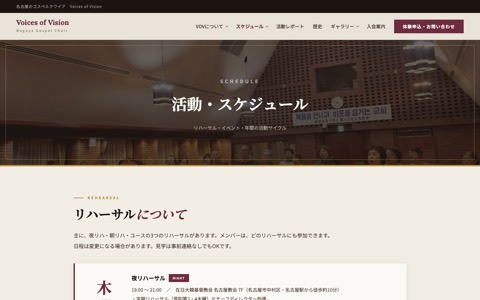
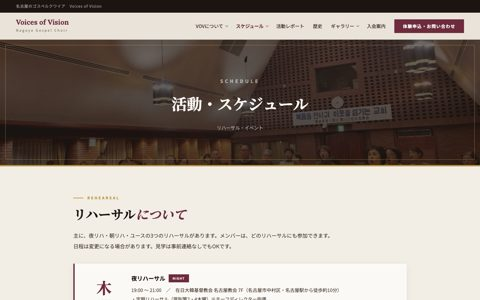
赤入れPDFの再照合で見つかった取りこぼし9件を修正
7/19 の赤入れ PDF の注釈118件を本番と1件ずつ照らし直した結果。
いずれも 9/9 のシートで「完了」としていたが、実際には反映されて
いなかった、または別の文になっていたもの。

TOP
- No.9/10/13/15：見出し下の紹介文が 9/5 の全画面化で消えていた。
  指示を入れた文（Voices of Vision（VOV）は、創設者…経験も、信仰も
  問いません。）で戻す。高さの低い画面では見出しを小さくし、
  800px 以下では引用を出さずに枠内へ収める。スマホは Information の
  案内が Since 1999 の札と重ならないよう上に余白
- No.17：引用下の「VOICES OF VISION」の札を削除。引用文は PDF の
  「オーディションなし。楽譜なし。…」に戻す（9/5 に変えていた）
- No.23：ABOUT VOV → About Us（「Our Values」になっていた）
- No.26/27：「VOVが大切にしていること」本文を PDF の文に戻し、
  創設者・VOV の2語だけ差し替え
- No.28：差し替え指示は先頭の一文だけ。消えていた続きの2文を戻す
- No.55「移動」：矢印は活動の記録の下端→活動レポート。活動レポート
  の区画を活動の記録の直後へ移動（背景色の重なりも調整）
- NAGOYA 削除の指示に合わせ、2つ目の Since 1999 の札も Gospel Choir

VOVについて
- No.70：3つの柱の文を読点・空白まで指示どおりに
- No.84：「・ユース」だけ削除の指示だったのに一文ごと消えていた。
  「一般会員は月額4,000円で、夜リハ・朝リハのどのリハーサルにも
  参加できます。」を戻す

活動レポート：No.114 上部の一文を削除（文を変えて残していた）
活動・スケジュール：「1年の流れ」削除に合わせ副題から「年間の活動
サイクル」を外す
確認資料：目次に「再確認で直したこと」と判断2件を追加、サイトマップ
の TOP の区画順と画像を更新

diff --git a/vov_top.html b/vov_top.html
@@ -113,11 +113,12 @@ img[data-rot],img[data-rot-fade]{position:absolute;inset:0;width:100%;height:100
 .h-eye{display:flex;align-items:center;gap:13px;margin-bottom:26px}
 .h-eye-bar{width:44px;height:2px;background:var(--gold-l)}
 .h-eye-t{font-size:clamp(10px,1vw,12px);letter-spacing:.34em;color:var(--gold-l);font-weight:700}
-h1{font-family:'Lora','Noto Serif JP',serif;font-size:clamp(40px,6vw,76px);font-weight:700;line-height:1.2;color:var(--white);margin-bottom:22px;text-shadow:0 2px 34px rgba(0,0,0,.42)}
+h1{font-family:'Lora','Noto Serif JP',serif;font-size:clamp(40px,6vw,76px);font-weight:700;line-height:1.2;color:var(--white);margin-bottom:14px;text-shadow:0 2px 34px rgba(0,0,0,.42)}
 h1 em{font-style:italic;color:var(--gold-l)}
 /* 採用されたキャッチコピー（シート No.7） */
-.h-catch{font-family:'Noto Serif JP','Lora',serif;font-weight:600;font-size:clamp(17px,1.9vw,23px);letter-spacing:.12em;line-height:1.7;color:rgba(251,249,245,.96);margin:-6px 0 18px;text-shadow:0 1px 18px rgba(0,0,0,.5)}
-.h-sub{font-family:'Lora','Noto Serif JP',serif;font-size:clamp(15px,1.7vw,19px);letter-spacing:.26em;color:rgba(251,249,245,.85);margin-bottom:42px;font-weight:500;font-style:italic;text-shadow:0 1px 20px rgba(0,0,0,.4)}
+.h-desc{font-size:clamp(13px,1.05vw,15px);line-height:1.9;color:rgba(251,249,245,.9);max-width:600px;margin:-18px 0 22px;text-shadow:0 1px 16px rgba(0,0,0,.5)}
+.h-catch{font-family:'Noto Serif JP','Lora',serif;font-weight:600;font-size:clamp(17px,1.9vw,23px);letter-spacing:.12em;line-height:1.7;color:rgba(251,249,245,.96);margin:-6px 0 14px;text-shadow:0 1px 18px rgba(0,0,0,.5)}
+.h-sub{font-family:'Lora','Noto Serif JP',serif;font-size:clamp(15px,1.7vw,19px);letter-spacing:.26em;color:rgba(251,249,245,.85);margin-bottom:28px;font-weight:500;font-style:italic;text-shadow:0 1px 20px rgba(0,0,0,.4)}
 .cta-row{display:flex;gap:22px;align-items:center;flex-wrap:wrap}
 .btn-fill{
   background:var(--burg);color:var(--white);padding:17px 40px;
@@ -137,7 +138,7 @@ h1 em{font-style:italic;color:var(--gold-l)}
 .hero-badge{position:absolute;z-index:3;top:52px;right:clamp(28px,5vw,64px);background:rgba(24,16,12,.72);backdrop-filter:blur(3px);color:var(--gold-l);padding:15px 22px;text-align:center;border:1px solid rgba(212,176,97,.3)}
 .hero-badge-n{font-family:'Lora','Noto Serif JP',serif;font-size:23px;font-weight:600;font-style:italic;line-height:1.15;display:block}
 .hero-badge-t{font-size:9px;letter-spacing:.22em;margin-top:6px;display:block;color:rgba(212,176,97,.72);font-weight:600}
-.hero-quote{margin-top:40px;max-width:440px;border-left:3px solid var(--gold-l);padding-left:18px}
+.hero-quote{margin-top:22px;max-width:440px;border-left:3px solid var(--gold-l);padding-left:18px}
 .hero-quote p{font-family:'Lora','Noto Serif JP',serif;font-size:14px;font-style:italic;color:rgba(251,249,245,.92);line-height:1.85;margin-bottom:6px;text-shadow:0 1px 16px rgba(0,0,0,.5)}
 .hero-quote span{font-size:10px;letter-spacing:.2em;color:rgba(212,176,97,.88);font-weight:700}
 .hero-scroll{position:absolute;z-index:3;right:clamp(28px,5vw,64px);bottom:54px;display:flex;flex-direction:column;align-items:center;gap:10px;color:rgba(251,249,245,.72);font-size:9.5px;letter-spacing:.24em;text-transform:uppercase;font-weight:700;text-decoration:none;writing-mode:vertical-rl}
@@ -151,10 +152,14 @@ h1 em{font-style:italic;color:var(--gold-l)}
   .hero-content h1{animation-delay:.24s}
   .hero-content .h-catch{animation-delay:.34s}
   .hero-content .h-sub{animation-delay:.42s}
+  .hero-content .h-desc{animation-delay:.5s}
   .hero-content .cta-row{animation-delay:.56s}
   .hero-content .hero-quote{animation-delay:.7s}
 }
 @keyframes heroIn{from{opacity:0;transform:translateY(16px)}to{opacity:1;transform:none}}
+/* 高さの低い画面（ノートPCなど）では見出しを少し小さくして、ヒーローの中に収める */
+@media(min-width:861px) and (max-height:920px){.hero-content h1{font-size:clamp(36px,5.2vw,64px)}.hero-content .info-pill{margin-bottom:14px}.h-eye{margin-bottom:18px}.h-desc{margin-bottom:18px}}
+@media(min-width:861px) and (max-height:800px){.hero-content h1{font-size:clamp(34px,4.6vw,56px)}.hero-content .hero-quote{display:none}}
 
 /* ===== キャッチコピーバンド（旧ニュースバー差し替え） ===== */
 .copy-band{
@@ -460,7 +465,7 @@ a.info-card:hover{box-shadow:0 10px 32px rgba(28,20,16,.13);transform:translateY
 .faq-btn:hover{background:var(--burg-d)}
 
 /* ===== POSTS ===== */
-.posts{background:var(--bg)}
+.posts{background:var(--bg2)}
 .posts-hd{display:flex;align-items:flex-end;justify-content:space-between;margin-bottom:44px;flex-wrap:wrap;gap:16px}
 .posts-g{display:grid;grid-template-columns:repeat(3,1fr);gap:24px}
 .post{background:var(--white);box-shadow:0 4px 20px rgba(28,20,16,.07);transition:all .28s;cursor:pointer;overflow:hidden}
@@ -536,11 +541,12 @@ footer{background:var(--ink);padding:64px 48px 30px;border-top:4px solid var(--g
   nav ul li:not(:last-child){display:none}
   .hero{min-height:calc(100svh - 56px)}
   .hero-frame{inset:16px}
-  .hero-content{padding:0 30px}
+  .hero-content{padding:116px 30px 34px}  /* 右上の Since 1999 の札と Information の案内が重ならないように */
   .hero-badge{top:24px;right:22px;padding:10px 15px}
   .hero-badge-n{font-size:17px}
   .hero-quote{margin-top:30px;max-width:none}
   .hero-quote p{font-size:12.5px}
+  .h-desc{font-size:12.5px;line-height:1.9;margin:-20px 0 22px}
   .hero-scroll{display:none}
   section{padding:72px 24px}
   .about-g,.join-g,.sched-g{grid-template-columns:1fr;gap:44px}
@@ -617,14 +623,14 @@ footer{background:var(--ink);padding:64px 48px 30px;border-top:4px solid var(--g
     </div>
     <h1>歌で、<br><em>心の垣根を</em><br>越える。</h1>
     <p class="h-catch">ゴスペルは魂の声。<wbr>さあ一緒に歌おう。</p>
-    <p class="h-sub">Voices of Vision（VOV）</p>
+    <p class="h-sub">Voices of Vision</p>
+<p class="h-desc">Voices of Vision（VOV）は、創設者ラニー・ラッカー氏が提言する "Music" "History" "Christianity" を体現し、多くの人の心に届くよう歌い続けていくことを目的に活動する、名古屋のゴスペルクワイアです。経験も、信仰も問いません。</p>
     <div class="cta-row">
       <a href="vov_contact.html" class="btn-fill">体験を申し込む</a>
       <a href="vov_join.html" class="btn-line">入会案内 →</a>
     </div>
     <div class="hero-quote">
-      <p>「はじめはみんな初心者。One Voiceで歌う醍醐味を、ぜひ体験してください。」</p>
-      <span>Voices of Vision</span>
+      <p>「オーディションなし。楽譜なし。歌が好きな気持ちだけ持ってきてください。」</p>
     </div>
   </div>
   <a href="#about" class="hero-scroll">Scroll</a>
@@ -645,22 +651,22 @@ footer{background:var(--ink);padding:64px 48px 30px;border-top:4px solid var(--g
         <div class="ai-main"><img src="vov_assets/top2-01.jpg" alt="VOVのメンバー" data-rot="about" loading="lazy" decoding="async"></div>
         <div class="ai-badge">
           <span class="ai-badge-n">Since<br>1999</span>
-          <span class="ai-badge-t">Nagoya</span>
+          <span class="ai-badge-t">Gospel Choir</span>
         </div>
       </div>
       <div>
         <div class="s-eye">
           <div class="s-eye-bar"></div>
-          <span class="s-eye-t">Our Values</span>
+          <span class="s-eye-t">About Us</span>
         </div>
         <h2>VOVが<br><em>大切にしていること</em></h2>
-        <p class="s-body">VOVは、創設者ラニー・ラッカー氏が提言する "Music" "History" "Christianity" の3つの柱を大切に、世代を超えた仲間とともに、多くの人の心に届くゴスペルを歌い続けています。</p>
+        <p class="s-body">VOVは、創設者ラニー・ラッカー氏が提言する3つの柱を体現し、多くの人の心に届くよう歌い続けていくことを目的に活動しています。</p>
         <div class="pillars">
           <div class="pl"><span class="pl-n">Music</span><span class="pl-d">歌の喜びを<br>分かち合う</span></div>
           <div class="pl"><span class="pl-n">History</span><span class="pl-d">ゴスペルの<br>ルーツを知る</span></div>
           <div class="pl"><span class="pl-n">Christianity</span><span class="pl-d">精神を尊重し<br>歌に込める</span></div>
         </div>
-        <p class="ab-note">ゴスペルのルーツであるキリスト教を大切に活動していますが、個人の信仰は問いません。</p>
+        <p class="ab-note">ゴスペルのルーツであるキリスト教を大切に活動していますが、個人の信仰は問いません。現在メンバーのうちクリスチャンは約2〜3割。歌が好きな方なら、どなたでも歓迎します。</p>
         <div style="margin-top:26px">
           <a href="vov_about.html" class="btn-line">VOVについて →</a>
         </div>
@@ -795,6 +801,48 @@ footer{background:var(--ink);padding:64px 48px 30px;border-top:4px solid var(--g
   </div>
 </section>
 
+<!-- ===== 活動レポート ===== -->
+<section class="posts" id="posts">
+  <div class="inner">
+    <div class="posts-hd rv">
+      <div>
+        <div class="s-eye">
+          <div class="s-eye-bar"></div>
+          <span class="s-eye-t">Report</span>
+        </div>
+        <h2>活動<em>レポート</em></h2>
+      </div>
+      <a href="vov_posts.html" class="btn-line">すべての投稿を見る →</a>
+    </div>
+    <div class="posts-g rv">
+      <a class="post" href="vov_posts.html">
+        <div class="post-img"><img src="vov_assets/gb-lanny-night.jpg" alt="春のワークショップ" loading="lazy" decoding="async"></div>
+        <div class="post-body">
+          <span class="post-date">2026.05.20</span>
+          <h3 class="post-title">春のワークショップを開催しました</h3>
+          <p class="post-ex">新メンバーも交えて、ゴスペルの基礎から楽しく学びました。</p>
+        </div>
+      </a>
+      <a class="post" href="vov_posts.html">
+        <div class="post-img"><img src="vov_assets/gb-waiwai.jpg" alt="地域イベント出演" loading="lazy" decoding="async"></div>
+        <div class="post-body">
+          <span class="post-date">2026.04.12</span>
+          <h3 class="post-title">地域イベントに出演しました</h3>
+          <p class="post-ex">たくさんの方に聴いていただき、ありがとうございました。</p>
+        </div>
+      </a>
+      <a class="post" href="vov_posts.html">
+        <div class="post-img"><img src="vov_assets/gb-section.jpg" alt="メンバー募集" loading="lazy" decoding="async"></div>
+        <div class="post-body">
+          <span class="post-date">2026.03.08</span>
+          <h3 class="post-title">新年度メンバー募集スタート！</h3>
+          <p class="post-ex">2026年度の新メンバーを募集しています。体験はいつでも歓迎です。</p>
+        </div>
+      </a>
+    </div>
+  </div>
+</section>
+
 <!-- ===== HISTORY ===== -->
 <section class="hist" id="history">
   <div class="inner">
@@ -845,48 +893,6 @@ footer{background:var(--ink);padding:64px 48px 30px;border-top:4px solid var(--g
       <h2>一緒に<em>歌いませんか？</em></h2>
       <p class="s-body" style="max-width:520px;margin:0 auto">オーディションも楽譜も必要ありません。<br>まずは一度、リハーサルを見に来てください。<br>見学は無料、何回でも納得がいくまで来てください。</p>
       <div class="join-cta"><a href="vov_join.html" class="btn-fill">入会案内</a></div>
-    </div>
-  </div>
-</section>
-
-<!-- ===== 活動レポート ===== -->
-<section class="posts" id="posts">
-  <div class="inner">
-    <div class="posts-hd rv">
-      <div>
-        <div class="s-eye">
-          <div class="s-eye-bar"></div>
-          <span class="s-eye-t">Report</span>
-        </div>
-        <h2>活動<em>レポート</em></h2>
-      </div>
-      <a href="vov_posts.html" class="btn-line">すべての投稿を見る →</a>
-    </div>
-    <div class="posts-g rv">
-      <a class="post" href="vov_posts.html">
-        <div class="post-img"><img src="vov_assets/gb-lanny-night.jpg" alt="春のワークショップ" loading="lazy" decoding="async"></div>
-        <div class="post-body">
-          <span class="post-date">2026.05.20</span>
-          <h3 class="post-title">春のワークショップを開催しました</h3>
-          <p class="post-ex">新メンバーも交えて、ゴスペルの基礎から楽しく学びました。</p>
-        </div>
-      </a>
-      <a class="post" href="vov_posts.html">
-        <div class="post-img"><img src="vov_assets/gb-waiwai.jpg" alt="地域イベント出演" loading="lazy" decoding="async"></div>
-        <div class="post-body">
-          <span class="post-date">2026.04.12</span>
-          <h3 class="post-title">地域イベントに出演しました</h3>
-          <p class="post-ex">たくさんの方に聴いていただき、ありがとうございました。</p>
-        </div>
-      </a>
-      <a class="post" href="vov_posts.html">
-        <div class="post-img"><img src="vov_assets/gb-section.jpg" alt="メンバー募集" loading="lazy" decoding="async"></div>
-        <div class="post-body">
-          <span class="post-date">2026.03.08</span>
-          <h3 class="post-title">新年度メンバー募集スタート！</h3>
-          <p class="post-ex">2026年度の新メンバーを募集しています。体験はいつでも歓迎です。</p>
-        </div>
-      </a>
     </div>
   </div>
 </section>

diff --git a/vov_docs.html b/vov_docs.html
@@ -128,6 +128,20 @@ ul.done{margin:.5rem 0 .5rem 1.2rem}ul.done li{margin:.28rem 0}
   <li>年表の抜粋（TOP・VOVについて）を、8/18 にいただいた年表と同じ文にそろえました</li>
 </ul>
 
+<h3>赤入れ PDF の再確認で直したこと（10/23）</h3>
+<p>7/19 の赤入れ PDF のコメント118件を本番と1件ずつ照らし直し、反映できていなかった次の箇所を直しました。</p>
+<ul>
+  <li>TOP：見出しの下の紹介文（「Voices of Vision（VOV）は、創設者ラニー・ラッカー氏が提言する…」）が、9月の全画面化のときに消えていました。ご指示の「経験も、信仰も問いません。」を含む文で戻しました <span class="no">No.9・10・13・15</span></li>
+  <li>TOP：引用の下の「VOICES OF VISION」の札を削除。引用文は PDF にあった「オーディションなし。楽譜なし。歌が好きな気持ちだけ持ってきてください。」に戻しました <span class="no">No.17</span></li>
+  <li>TOP：「ABOUT VOV」→「About Us」 <span class="no">No.23</span></li>
+  <li>TOP：「VOVが大切にしていること」の本文を PDF の文に戻し、ご指示の2語（創設者・VOV）だけ差し替えました <span class="no">No.26・27</span></li>
+  <li>TOP：「個人の信仰は問いません。」の続きの2文（クリスチャンは約2〜3割…）が消えていたので戻しました <span class="no">No.28</span></li>
+  <li>TOP：「活動レポート」の区画を「活動の記録とコンサート」の直後へ移動（矢印のご指示） <span class="no">No.55</span></li>
+  <li>VOVについて：3つの柱の文を、読点と空白までご指示のとおりに <span class="no">No.70</span></li>
+  <li>VOVについて：会費の帯に「一般会員は月額4,000円で、夜リハ・朝リハのどのリハーサルにも参加できます。」を戻しました（「・ユース」だけ削除のご指示） <span class="no">No.84</span></li>
+  <li>活動レポート：ページ上部の「VOVの日々の活動をお届けします」を削除 <span class="no">No.114</span></li>
+</ul>
+
 <h2>決めていただきたいこと</h2>
 <div class="tw"><table>
 <tr><th>項目</th><th>内容</th></tr>
@@ -148,6 +162,8 @@ ul.done{margin:.5rem 0 .5rem 1.2rem}ul.done li{margin:.28rem 0}
 <tr><td>江崎さまの写真</td><td>2枚のうち「本人希望・今回提出」を使いました</td></tr>
 <tr><td>ラニーさまの写真</td><td>同じ写真が2枚（左右反転したもの）あったため、反転していない方を使いました</td></tr>
 <tr><td>楽天のリンク</td><td>いただいたリンク先が「ふるさと本舗」だったので、ボタンの表示も「ふるさと本舗」にしました</td></tr>
+<tr><td>活動レポートの位置（TOP）</td><td>赤入れの矢印は「活動の記録とコンサート」の下端から「活動レポート」へ引かれていました。活動レポートを活動の記録の直後へ移し、Information は従来どおり活動の記録の上に置いています</td></tr>
+<tr><td>Since 1999 の札（TOP）</td><td>ヒーローの札で「NAGOYA」を削除するご指示だったので、同じ札の2つ目（VOVが大切にしていること の写真）も「Gospel Choir」にそろえました</td></tr>
 </table></div>
 
 <h2>準備中</h2>

diff --git a/vov_about.html b/vov_about.html
@@ -346,15 +346,15 @@ footer{background:var(--ink);padding:64px 48px 30px;border-top:4px solid var(--g
     <div class="pillars">
       <div class="pl">
         <span class="pl-n">Music</span>
-        <p class="pl-d">ゴスペル “Music” のメッセージを理解し、音楽で表現することを目標とします。</p>
+        <p class="pl-d">ゴスペル “Music”のメッセージを理解し音楽で表現することを目標とします。</p>
       </div>
       <div class="pl">
         <span class="pl-n">History</span>
-        <p class="pl-d">黒人奴隷の時代からのゴスペルミュージックの “History” を学び、現在から未来へとゴスペルの素晴らしさを継承することを目標とします。</p>
+        <p class="pl-d">黒人奴隷の時代からのゴスペルミュージックの“History”を学び、現在から未来へとゴスペルの素晴らしさを継承することを目標とします。</p>
       </div>
       <div class="pl">
         <span class="pl-n">Christianity</span>
-        <p class="pl-d">ゴスペルミュージックの根底にある “Christianity” を理解し、その精神を伝えることを目標とします。</p>
+        <p class="pl-d">ゴスペルミュージックの根底にある“Christianity”を理解し、その精神を伝えることを目標とします。</p>
       </div>
     </div>
   </div>
@@ -465,7 +465,7 @@ footer{background:var(--ink);padding:64px 48px 30px;border-top:4px solid var(--g
         <div class="fee-price-t">一般会員</div>
       </div>
       <p class="fee-desc">
-        VOVの活動は、メンバーの会費で運用されています。<br>
+        VOVの活動は、メンバーの会費で運用されています。一般会員は月額4,000円で、夜リハ・朝リハのどのリハーサルにも参加できます。<br>
         <strong>学生料金など、各種割引料金あります。</strong>
       </p>
     </div>

diff --git a/vov_sitemap.html b/vov_sitemap.html
@@ -86,9 +86,9 @@ footer{border-top:3px solid var(--ink);margin-top:2.8rem;padding:1.2rem 0 3rem;f
         <li>リハーサルについて（夜リハ／朝リハ／U25・会費）</li>
         <li>最新のお知らせ（Information） <span class="tag upd">更新予定</span></li>
         <li>活動の記録とコンサート（写真5枠・動画2本）</li>
+        <li>活動レポート（新しい3件） <span class="tag upd">更新予定</span></li>
         <li>VOVの歩み（主な5年）</li>
         <li>一緒に歌いませんか？</li>
-        <li>活動レポート（新しい3件） <span class="tag upd">更新予定</span></li>
       </ul>
       <div class="lbl">本文から移動</div>
       <ul class="to">

diff --git a/vov_schedule.html b/vov_schedule.html
@@ -254,7 +254,7 @@ footer{background:var(--ink);padding:64px 48px 30px;border-top:4px solid var(--g
 <div class="phero" style="background-image:url(vov_assets/gb-night-reh.jpg)">
   <p class="phero-eye">Schedule</p>
   <h1>活動・スケジュール</h1>
-  <p>リハーサル・イベント・年間の活動サイクル</p>
+  <p>リハーサル・イベント</p>
 </div>
 
 <section style="background:var(--paper)">

diff --git a/vov_posts.html b/vov_posts.html
@@ -182,7 +182,6 @@ footer{background:var(--ink);padding:64px 48px 30px;border-top:4px solid var(--g
 <div class="phero" style="background-image:url(vov_assets/gb-tokai.jpg)">
   <p class="phero-eye">Report</p>
   <h1>活動レポート</h1>
-  <p>VOVの日々の活動をお届けします</p>
 </div>
 
 <section style="background:var(--bg)">
